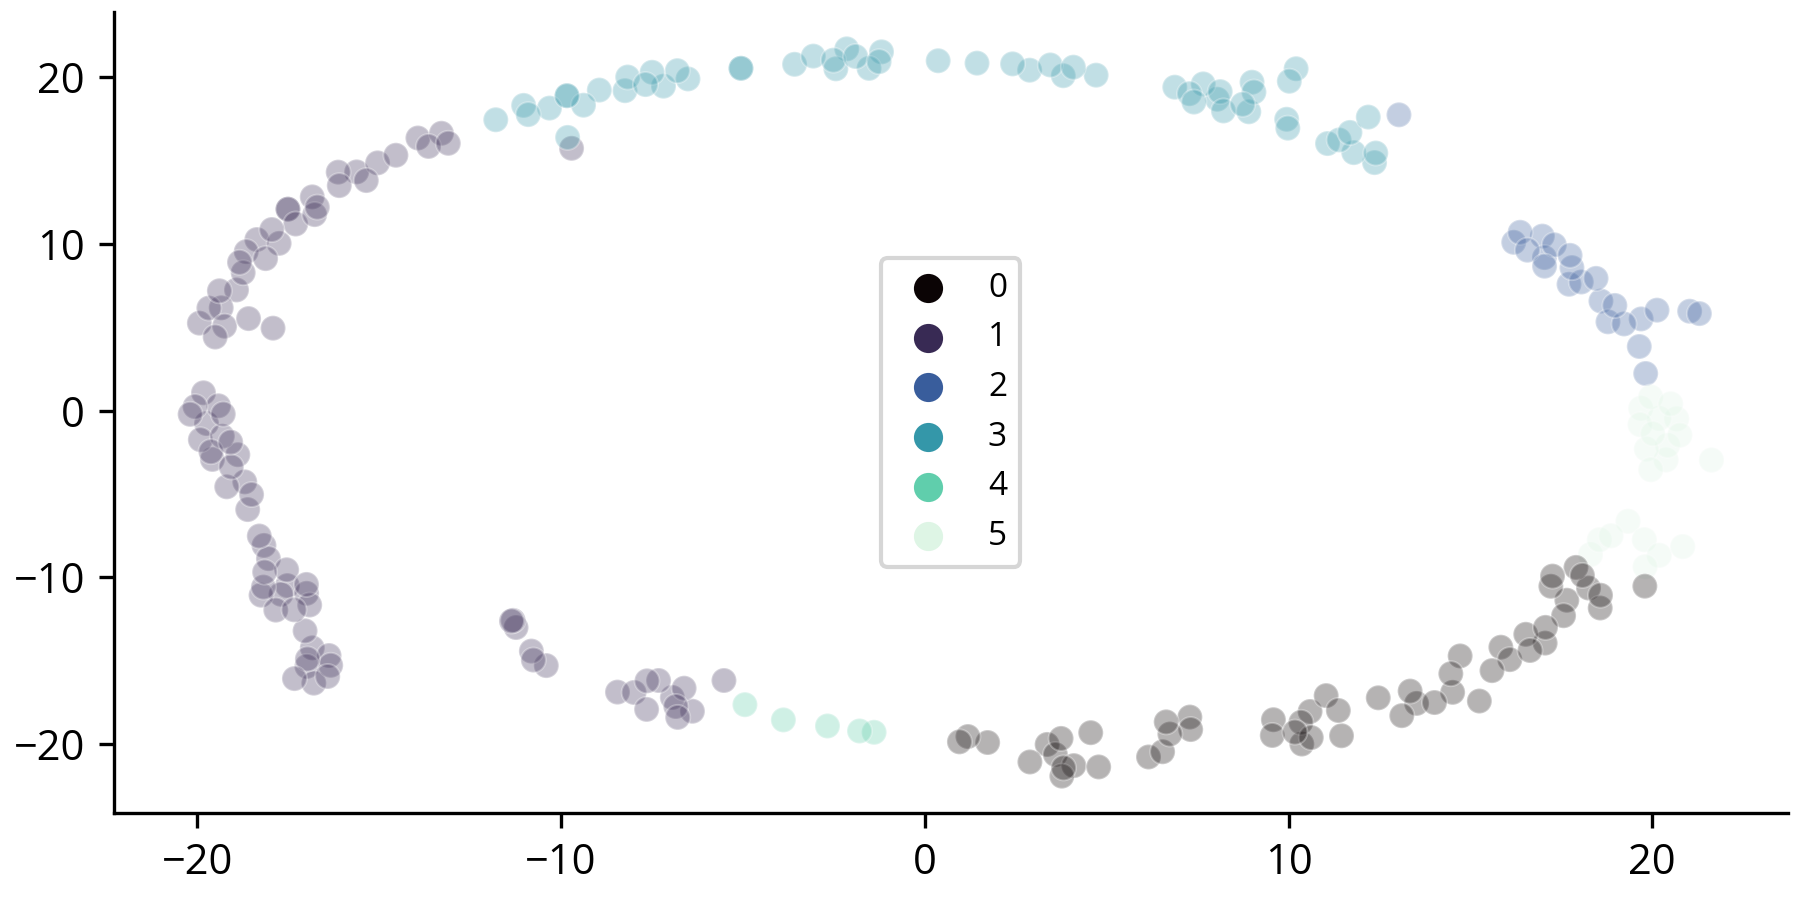
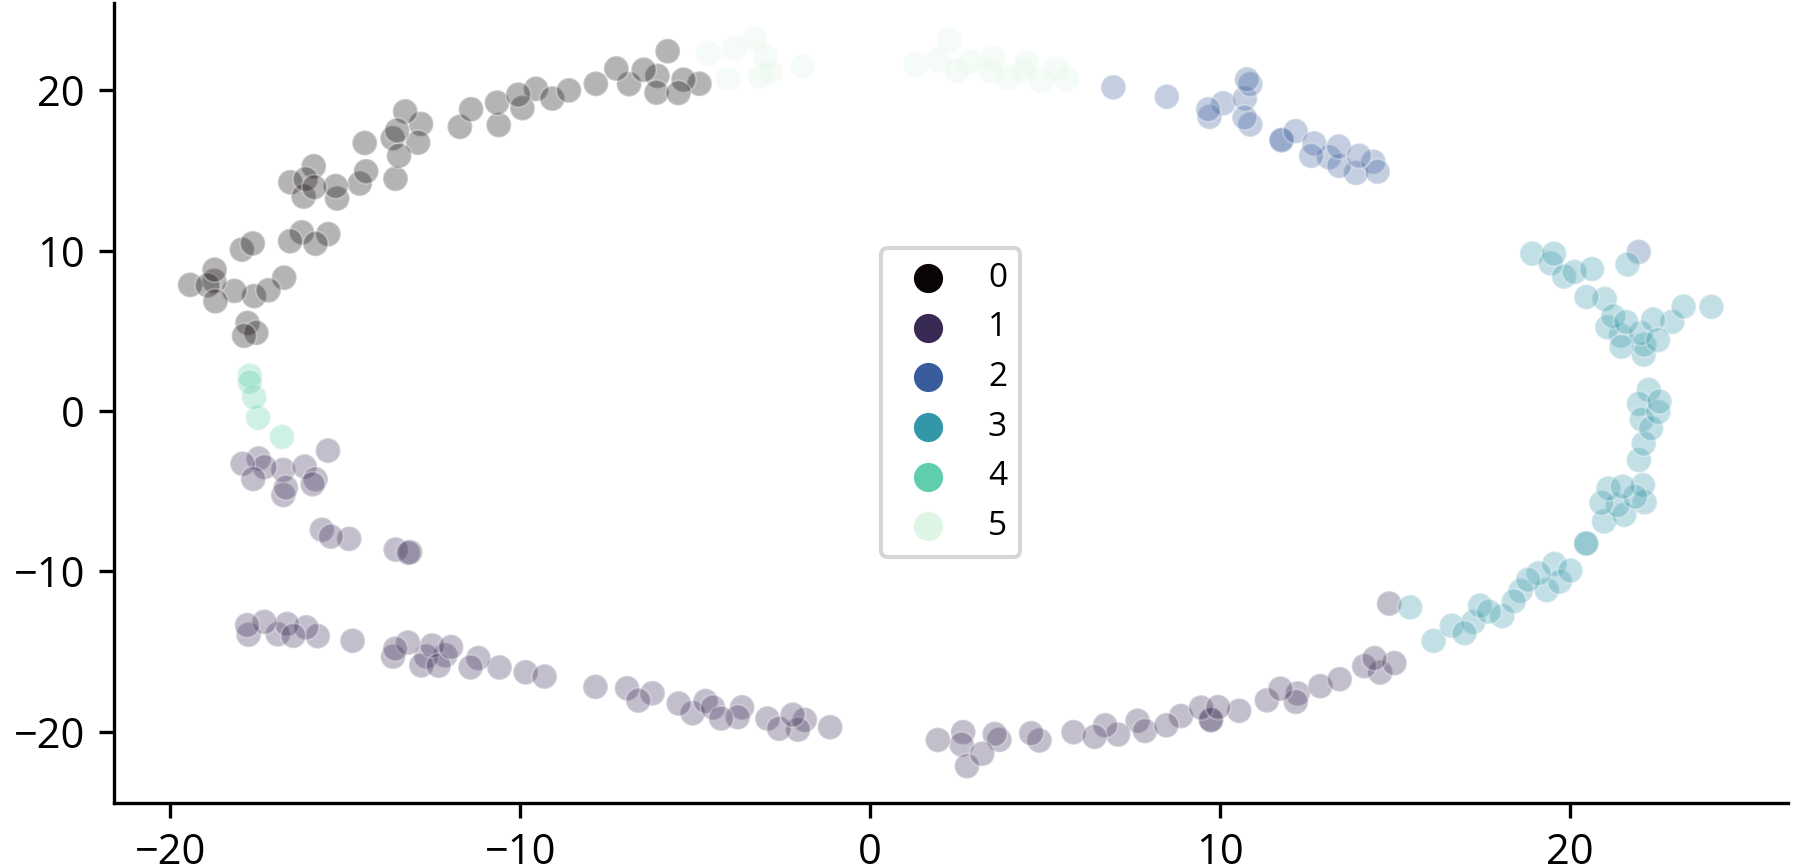
gld2030 plots updates

diff --git a/thesis scripts/experiments/2030/analysis/report_2030_gld3_named_stripplots.py b/thesis scripts/experiments/2030/analysis/report_2030_gld3_named_stripplots.py
@@ -23,6 +23,7 @@ from util_2030_postprocess_tools import (
     batcols,
     bivar_tech_dict,
     grid_col,
+    cluster_map,
 )
 
 #%% paths
@@ -34,7 +35,6 @@ RESOURCE_FOLDER.mkdir(exist_ok=True)
 
 ## constants
 COLLECTION = "gld2030"
-RUN_ID = "2310_v2"
 palette = sns.color_palette("mako", n_colors=4)
 
 ## maps
@@ -44,38 +44,61 @@ col_map = {
     total_bat_col: "battery",
     total_h2_col: "hydrogen",
 }
-features = list(col_map.values())
+features = ['PV', 'wind', 'battery', 'hydrogen']
 targets = {
     "no_target": {"title": "No target", "sort": 1, "clusters": 2},
     "fixed_target_60": {"title": "60% target", "sort": 2, "clusters": 3},
     "fixed_target_80": {"title": "80% target", "sort": 3, "clusters": 4},
     "fixed_target_100": {"title": "100% target", "sort": 4, "clusters": 4},
 }
-cluster_col = "clusters_predef_num_clusters"
 target_col = "target_RE_strategy"
-
+cluster_col = "clusters_predef_num_clusters"
+generic_cluster_order = ['max. PV', 'PV&hydrogen', 'wind&hydrogen', 'max. wind']
 #%% fetch and process data
 db = pd.read_pickle(RESOURCE_FOLDER / f"{COLLECTION}_2210_v2_clustered.pkl")
 
-## rename columns
-db.rename(col_map, inplace=True, axis=1)
+## rename clusters and implement sorting
 db["sort"] = db.target_RE_strategy.apply(lambda x: targets[x]["sort"])
-db.sort_values(["sort", cluster_col], inplace=True)
-db["target_RE_strategy"] = db.target_RE_strategy.apply(lambda x: targets[x]["title"])
 
-df = db[[*features, cluster_col, target_col]].copy()
+for target, gdf in db.groupby("target_RE_strategy"):
+    
+    target_map = cluster_map[target]
+    def cluster_order(x):
+        cluster_num = int(x[0])
+        return target_map[cluster_num]['order']
+    db.loc[gdf.index,'cluster_sort'] = gdf[cluster_col].apply(cluster_order)
+
+    predef_clusters = gdf[cluster_col].unique()
+    temp_lst = []
+    for pclus in predef_clusters:
+        cluster_num = int(pclus[0])
+        count = pclus.split(" ")[1]
+
+        temp_lst.append(
+            (target_map[cluster_num]["order"], target_map[cluster_num]["name"]+" "+count),
+        )
+    temp_lst = [y for _, y in sorted(temp_lst)]
+
+    target_map.update({"cluster_list": temp_lst})
+
+t_cluster_map = {}
+for key in cluster_map.keys():
+    t_cluster_map.update({
+        targets[key]['title']:cluster_map[key]
+    })
+cluster_map = t_cluster_map
+db["target_RE_strategy"] = db.target_RE_strategy.apply(lambda x: targets[x]["title"])
+db.sort_values(["sort", "cluster_sort"], inplace=True)
+df = db[[*features, "cluster_sort", target_col]].copy()
 df[features] = df[features] / 1000
 
-palette_d = []
-for attribute in targets.values():
-    pal = palette[: attribute["clusters"]]
-    attribute.update({"palette": pal})
-    palette_d.extend(pal)
+
+
 #%% =================================================================================================
 ##                      Stripplot
 
 
-fig, axi = plt.subplots(4, 1, figsize=(6, 8))
+fig, axi = plt.subplots(5, 1, figsize=(6, 8), gridspec_kw={"height_ratios": [*[5]*4,4]})
 plt.tight_layout(pad=PAD)
 rc = {
     "font.family": "Open Sans",
@@ -101,27 +124,38 @@ for i, (feature) in enumerate(features):
         x=feature,
         y=target_col,
         data=df,
-        hue=cluster_col,
+        hue="cluster_sort",
         ax=ax,
         orient="h",
         size=2,
         alpha=1,
         jitter=0.45,
-        palette=palette_d,
+        palette=palette,
     )
 
     ax.get_legend().remove()
     ax.set_ylabel("")
     ax.set_xlabel(f"{feature} deployed capacity ({unit})")
 
+y=1
+pos = [tuple([-0.1+x*0.32,y]) for x in range(4)]
+axi[-1].axis("off")
+legends =[]
+for i, target in enumerate(cluster_map.keys()):
+    target_clusters = cluster_map[target]["cluster_list"]
+    
+    legends.append(plt.legend(
+        handles=[Patch(facecolor=c, edgecolor=c, label=f"{i+1}: {l}") for i, (l, c) in enumerate(zip(target_clusters, palette))],
+        frameon=False,
+        ncol=1,
+        bbox_to_anchor=pos[i],
+        loc="upper center",
+        title=f"{target}",
+    ))
 
-axi[0].legend(
-    handles=[Patch(facecolor=c, edgecolor=c, label=i) for i, c in enumerate(palette)],
-    frameon=False,
-    ncol=1,
-    loc="upper right",
-    title="clusters",
-)
+for leg in legends[:3]:
+    axi[-1].add_artist(leg)
+
 
 default_matplotlib_save(
     fig,
@@ -136,7 +170,7 @@ for fn_target, attribute in targets.items():
     sdf = df.query(f"target_RE_strategy == '{target}'")
     fig, axi = plt.subplots(5, 1, figsize=(6, 5), gridspec_kw={'height_ratios': [*[5]*4,1]})
     plt.tight_layout(pad=PAD)
-    plt.subplots_adjust(bottom=0.8)
+    plt.subplots_adjust(bottom=0.1)
     rc = {
         "font.family": "Open Sans",
         "font.size": 10,
@@ -162,22 +196,21 @@ for fn_target, attribute in targets.items():
 
         sns.stripplot(
             x=feature,
-            y=cluster_col,
+            y="cluster_sort",
             data=sdf,
-            hue=cluster_col,
             ax=ax,
             orient="h",
             size=2,
             alpha=1,
             jitter=0.45,
-            palette=attribute["palette"],
+            palette=palette,
         )
 
-        ax.get_legend().remove()
+        # ax.get_legend().remove()
         ax.set_ylabel("")
         ax.set_yticklabels([])
         ax.set_xlabel(f"{feature} deployed capacity ({unit})")
-        ax.set_xlim([-0.3, sdf.max()[feature] if sdf.max()[feature] > 15 else 15])
+        ax.set_xlim([-0.3, sdf.max()[feature] if sdf.max()[feature] > 5 else 5])
 
         ax.tick_params(
             axis="both",
@@ -188,9 +221,8 @@ for fn_target, attribute in targets.items():
     axi[-1].axis('off')
     axi[-1].legend(
         handles=[
-            Patch(facecolor=c, edgecolor=c, label=i) 
-            for i, c in enumerate(
-                palette[:attribute["clusters"]]
+            Patch(facecolor=c, edgecolor=c, label=l) 
+            for i, (l, c) in enumerate(zip(cluster_map[target]['cluster_list'], palette)
                 )
         ],
         frameon=True,
@@ -200,10 +232,68 @@ for fn_target, attribute in targets.items():
         title="clusters",
     )
     
-
+    plt.tight_layout(pad=PAD)
     default_matplotlib_save(
         fig,
         IMAGE_FOLDER / f"report_{COLLECTION}_striplot_clusters_{fn_target}.png",
+    )
+
+
+#%% =================================================================================================
+##                      PAIRPLOTS
+
+pairplot_col_map = {
+    "pv_cost_factor": "pv cost factor",
+    "wind_cost_factor": "wind cost factor",
+    "battery_cost_factor": "battery cost factor",
+    "hydrogen_cost_factor": "hydrogen cost factor",
+}
+db.rename(pairplot_col_map, inplace=True, axis=1)
+
+for fn_target, attribute in targets.items():
+    target = attribute["title"]
+    sdf = db.query(f"target_RE_strategy == '{target}'")
+    
+    sdf = sdf[[*pairplot_col_map.values(), 'cluster_sort']].copy()
+    sdf.sort_values("cluster_sort", inplace=True)
+    ncl = len(sdf["cluster_sort"].unique())
+    pal = palette[:ncl]
+    plt.tight_layout(pad=PAD)
+
+    rc = {
+        "font.family": "Open Sans",
+        "font.size": 8,
+    }
+    plt.rcParams.update(rc)
+    g = sns.pairplot(
+        sdf, hue="cluster_sort", palette=pal, plot_kws={"size": 10}
+    )
+
+    g._legend_data.pop("10")
+
+    handles = g._legend_data.values()
+    labels = g._legend_data.keys()
+    g._legend.remove()
+
+    g.fig.legend(
+        handles=[
+            Patch(facecolor=c, edgecolor=c, label=l) 
+            for i, (l, c) in enumerate(zip(cluster_map[target]['cluster_list'], palette)
+                )
+        ],
+        frameon=True,
+        bbox_to_anchor=(0.5, 0),
+        ncol=4,
+        loc="upper center",
+        title="clusters",
+    )
+    plt.subplots_adjust(bottom=0.1)
+    g.fig.set_size_inches(6, 5)
+
+    plt.savefig(
+        IMAGE_FOLDER / f"report_{COLLECTION}_pairplot_{target}.png",
+        dpi=300,
+        bbox_inches="tight",
     )
 
 

diff --git a/thesis scripts/experiments/2030/analysis/util_2030_postprocess_tools.py b/thesis scripts/experiments/2030/analysis/util_2030_postprocess_tools.py
@@ -161,7 +161,6 @@ def plot_grouped_stackedbars(
     # width_ratios is dummy ratio to make second plot very small
     fig, ax = plt.subplots(figsize=figsize)
 
-
     # All compared entities, in order of appearance
     all_entities = df.index.get_level_values(ix_entities_compared).unique()
     # Determine number of entities, portions, and colors
@@ -189,11 +188,9 @@ def plot_grouped_stackedbars(
         if i == n_entities_compared - 1:
             handles, labels = ax.get_legend_handles_labels()
             handles2 = handles[-len(df.columns) :]
-        
+
     # Legend definition (hidden in first subplot, but displayed in second)
-    ax.legend(
-        handles=handles2, loc="upper right", frameon=False
-    )
+    ax.legend(handles=handles2, loc="upper right", frameon=False)
 
     # Axis title
     ax.yaxis.set_label_text(ylabel)
@@ -204,3 +201,27 @@ def plot_grouped_stackedbars(
     fig.tight_layout()  # Important to not have labels and legend extend beyond figure
 
     return ax, fig
+
+
+cluster_map = {
+    "no_target": {
+        0: {"name": "PV", "order": 1},
+        1: {"name": "no PV", "order": 2},
+    },
+    "fixed_target_60": {
+        0: {"name": "max. PV", "order": 1},
+        1: {"name": "max. wind", "order": 3},
+        2: {"name": "moderate", "order": 2},
+    },
+    "fixed_target_80": {
+        0: {"name": "moderate", "order": 2},
+        1: {"name": "max. PV", "order": 1},
+        2: {"name": "max. wind", "order": 3},
+    },
+    "fixed_target_100": {
+        0: {"name": "PV&hydrogen", "order": 2},
+        1: {"name": "wind&hydrogen", "order": 3},
+        2: {"name": "max. wind", "order": 4},
+        3: {"name": "max. PV", "order": 1},
+    },
+}

diff --git a/thesis scripts/experiments/2030/analysis/report_2030_gld0_clustering.py b/thesis scripts/experiments/2030/analysis/report_2030_gld0_clustering.py
@@ -131,7 +131,7 @@ for target, settings in targets.items():
         clusters.append(cl)
         db.loc[df.index, cl] = cluster_labels_with_count
 
-# db.to_pickle(RESOURCE_FOLDER / "{COLLECTION}_2210_v2_clustered.pkl")
+# db.to_pickle(RESOURCE_FOLDER / f"{COLLECTION}_2210_v2_clustered.pkl")
 
 #%% =================================================================================================
 ##                      PAIRPLOTS

diff --git a/thesis scripts/experiments/2030/analysis/report_2030_gld2_boxplot.py b/thesis scripts/experiments/2030/analysis/report_2030_gld2_boxplot.py
@@ -55,7 +55,7 @@ cluster_col = "clusters_predef_num_clusters"
 target_col = "target_RE_strategy"
 
 #%% fetch and process data
-db = pd.read_pickle(RESOURCE_FOLDER / "{COLLECTION}_2210_v2_clustered.pkl")
+db = pd.read_pickle(RESOURCE_FOLDER / f"{COLLECTION}_2210_v2_clustered.pkl")
 
 ## rename columns
 db.rename(col_map, inplace=True, axis=1)
